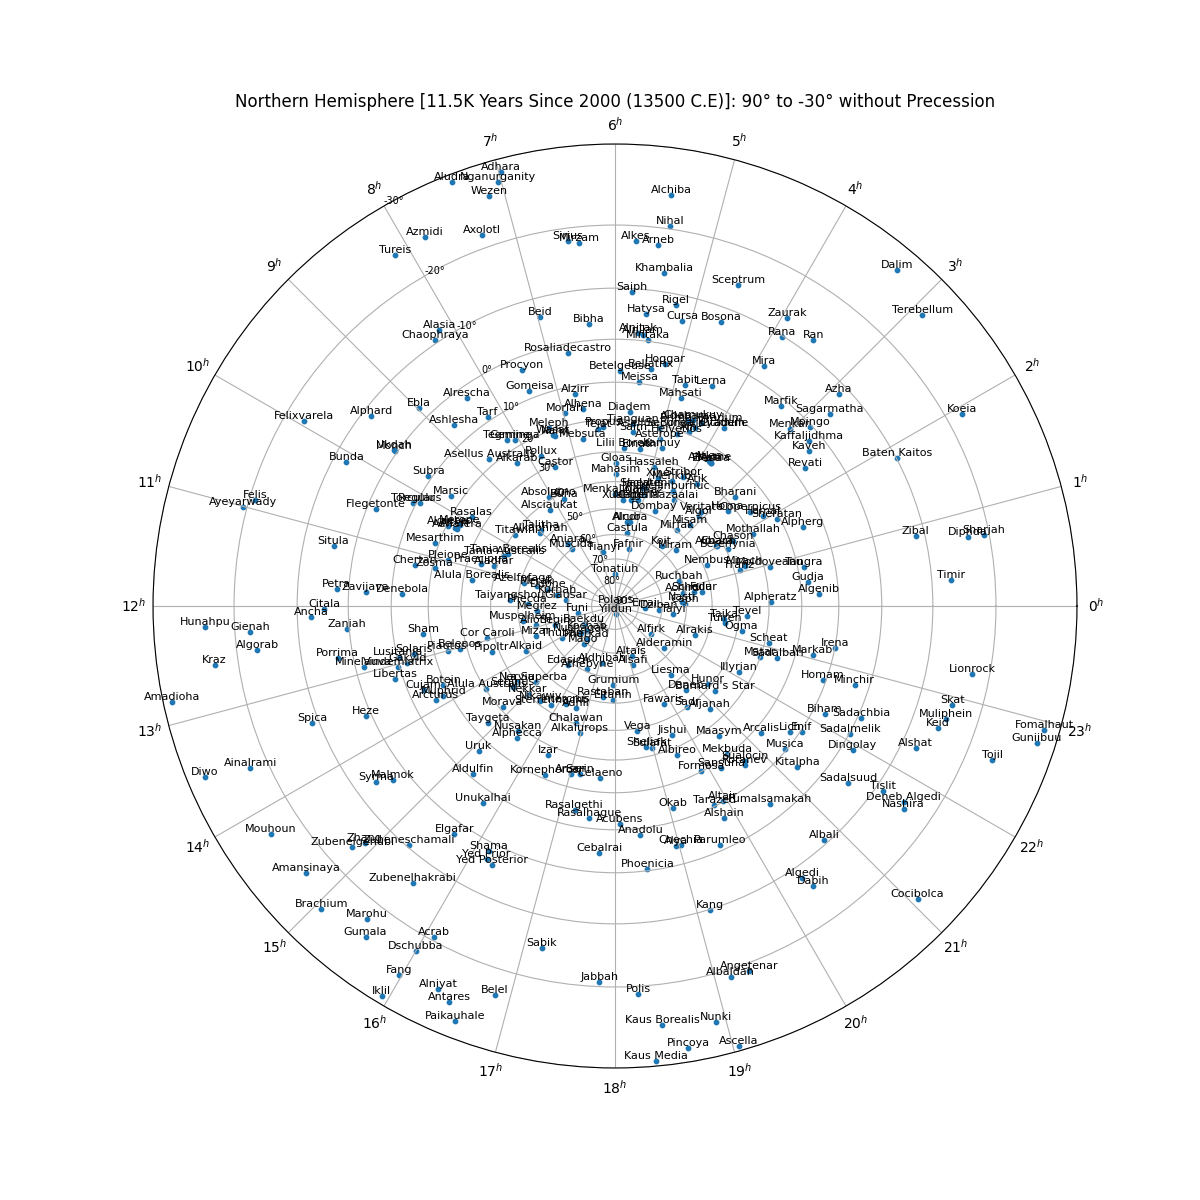
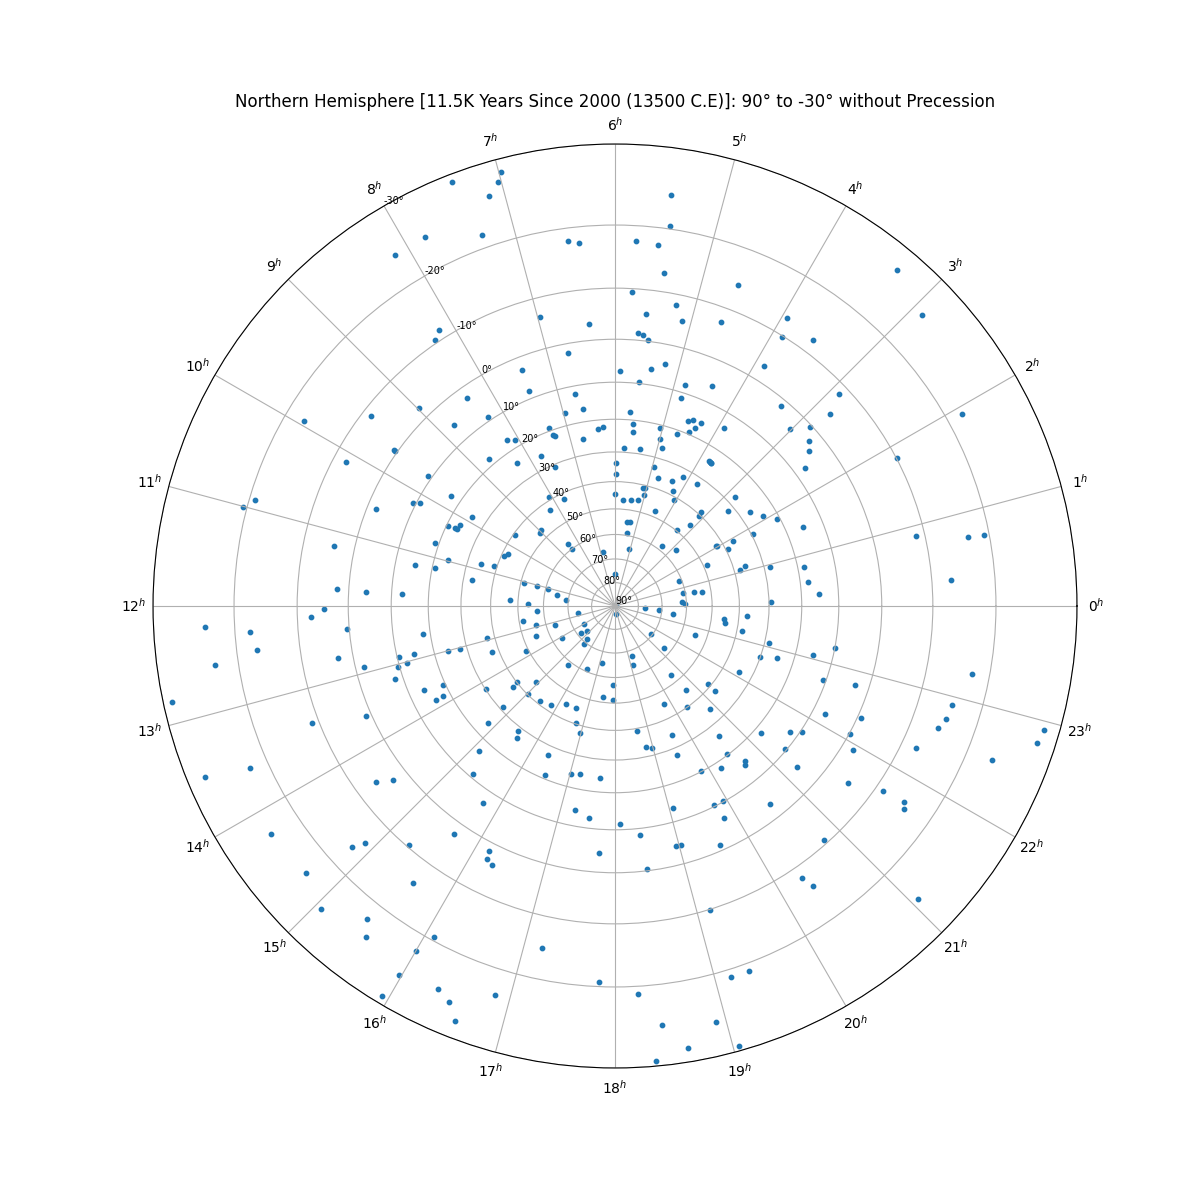
remove star labels from isPrecessionIncluded examples

diff --git a/generate_examples_star_chart.py b/generate_examples_star_chart.py
@@ -156,11 +156,13 @@ if __name__ == '__main__':
 																isPrecessionIncluded=True,
 																yearSince2000=11500,
 																showPlot=show_plot,
+																displayStarNamesLabels=False,
 																save_plot_name="examples/isPrecessionIncluded_default.png")
 	star_chart_spherical_projection.plot_stereographic_projection(northOrSouth="North",
 																isPrecessionIncluded=False,
 																yearSince2000=11500,
 																showPlot=show_plot,
+																displayStarNamesLabels=False,
 																save_plot_name="examples/isPrecessionIncluded_false.png")
 	# maxMagnitudeFilter
 	star_chart_spherical_projection.plot_stereographic_projection(northOrSouth="North",

diff --git a/README.md b/README.md
@@ -259,7 +259,7 @@ plot_stereographic_projection(northOrSouth=None,
 | ------------- | ------------- |
 | ![incrementBy_default+png](https://raw.githubusercontent.com/cyschneck/Star-Chart-Spherical-Projection/main/examples/incrementBy_default.png) | ![incrementBy_5+png](https://raw.githubusercontent.com/cyschneck/Star-Chart-Spherical-Projection/main/examples/incrementBy_5.png) |
 
-| isPrecessionIncluded=True (default) (yearSince2000=11500) | isPrecessionIncluded=False (yearSince2000=11500) |
+| isPrecessionIncluded=True (default) (yearSince2000=11500) (without star labels) | isPrecessionIncluded=False (yearSince2000=11500) (without star labels) |
 | ------------- | ------------- |
 | ![isPrecessionIncluded_default+png](https://raw.githubusercontent.com/cyschneck/Star-Chart-Spherical-Projection/main/examples/isPrecessionIncluded_default.png) | ![isPrecessionIncluded_false+png](https://raw.githubusercontent.com/cyschneck/Star-Chart-Spherical-Projection/main/examples/isPrecessionIncluded_false.png) |
 
